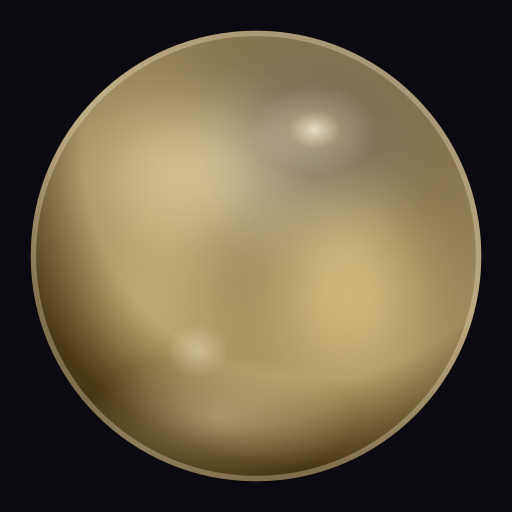
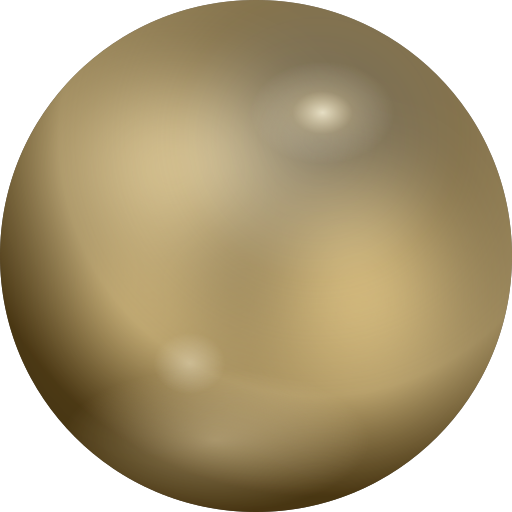
Take the ring off the orb, and give it room in the launcher
The mark is a blown-glass ball, and it shipped with a hard 1px highlight
tracing its edge plus a softer band of light just inside it. At the 22–26px
the header band uses, that ring was the loudest thing about it: an outline
drawn around something that is meant to have no line. Both are gone from all
three places the orb is drawn — the stylesheet, the mobile component and the
still render — and what keeps the sphere round in their absence is the shell
gradient's own fall to shadow at the rim, which is shading rather than an
edge. If a small mark ever stops reading as a ball, the knob is `--orb-glass`
and its mobile twin `GLASS`, not a ring.

The launcher artwork had the opposite problem: at 0.86 of the canvas the ball
crowded the rounded-square mask, and the Android adaptive foreground filled
its entire safe zone with nothing to spare. Both come down.

The tab icons lose their plate as well. An icon on its own dark square is a
picture of a tile; the mark is the ball, so the ball is what ships — for the
browser tab and for the manifest's pair, which the launcher grounds however
it likes. The Apple touch icon and the maskable one keep theirs, because iOS
paints alpha black and a maskable icon is cropped to a shape that has to have
paint under all of it.

diff --git a/apps/web/app/globals.css b/apps/web/app/globals.css
@@ -667,10 +667,17 @@ html:has(.marketing-shell) {
    rendering fault rather than as a shine. The mobile orb learned the same
    thing the hard way when it span a baked highlight.
 
-   Four things here: the hard specular where the light is, a smaller second
-   one glass always shows, the shell's own thickness catching light around
-   the rim, and a bounce along the bottom where the ground throws light back
-   up at it. */
+   Three things here: the hard specular where the light is, a smaller second
+   one glass always shows, and a bounce along the bottom where the ground
+   throws light back up at it.
+
+   Nothing traces the edge any more. There used to be two rings — a hard 1px
+   inset highlight and, under it, a soft band of light where the shell's own
+   thickness catches it — and at 22–26px they were the loudest thing about
+   the mark: a drawn outline around a ball that is meant to be blown glass.
+   What keeps it round without them is the terminator below, which is
+   shading rather than an edge. If a mark ever stops reading as a sphere,
+   the knob is `--orb-glass`, not a ring. */
 .pc-orb::after {
   content: "";
   display: block;
@@ -691,20 +698,15 @@ html:has(.marketing-shell) {
       transparent 22%
     ),
     radial-gradient(
-      circle at 50% 50%,
-      transparent 74%,
-      rgb(var(--orb-c1) / calc(0.16 * var(--orb-glass))) 90%,
-      transparent 100%
-    ),
-    radial-gradient(
       circle at 58% 33%,
       transparent 52%,
       rgb(30 20 6 / calc(0.14 * var(--orb-glass))) 84%,
       rgb(22 14 4 / calc(0.16 * var(--orb-glass))) 100%
     );
-  box-shadow:
-    inset 0 0 0 1px rgb(255 244 214 / calc(0.34 * var(--orb-glass))),
-    inset 0 -7cqw 11cqw -5cqw rgb(255 237 194 / calc(0.24 * var(--orb-glass)));
+  /* The bounce alone. The 1px inset ring that used to sit above it was the
+     border the mark is better off without. */
+  box-shadow: inset 0 -7cqw 11cqw -5cqw
+    rgb(255 237 194 / calc(0.24 * var(--orb-glass)));
 }
 
 /* Denser glass for the marks. At 22–26px the shell is a few pixels of tint

diff --git a/apps/mobile/src/components/Orb.tsx b/apps/mobile/src/components/Orb.tsx
@@ -317,6 +317,12 @@ export function Orb({
  * hard specular where the light is, the smaller second one glass always
  * shows, and the bounce along the bottom where the ground throws light back
  * up at the sphere.
+ *
+ * Nothing traces the edge. A stroke used to run all the way round, and at
+ * 26px it read as a drawn outline on a ball that is meant to be blown
+ * glass. What keeps the sphere round without it is the shell gradient's own
+ * fall to `C3` at the rim — shading rather than an edge. The web orb lost
+ * the same ring, and its softer twin with it.
  */
 function OrbOptics({
   box,
@@ -362,19 +368,6 @@ function OrbOptics({
       <Ellipse cx="42" cy="86" rx="30" ry="14" fill={`url(#${id}-bounce)`} />
       <Ellipse cx="63" cy="22" rx="17" ry="12" fill={`url(#${id}-spec)`} />
       <Ellipse cx="37" cy="71" rx="7" ry="6" fill={`url(#${id}-spec2)`} />
-      {/* The shell's own edge, catching light all the way round. A stroke
-          rather than another gradient: at 26px the rim is one pixel wide and
-          a gradient that thin resolves to nothing. */}
-      <Ellipse
-        cx="50"
-        cy="50"
-        rx="49.4"
-        ry="49.4"
-        fill="none"
-        stroke="#fff4d6"
-        strokeOpacity={a(0.34, glass)}
-        strokeWidth={1.2}
-      />
     </Svg>
   );
 }
